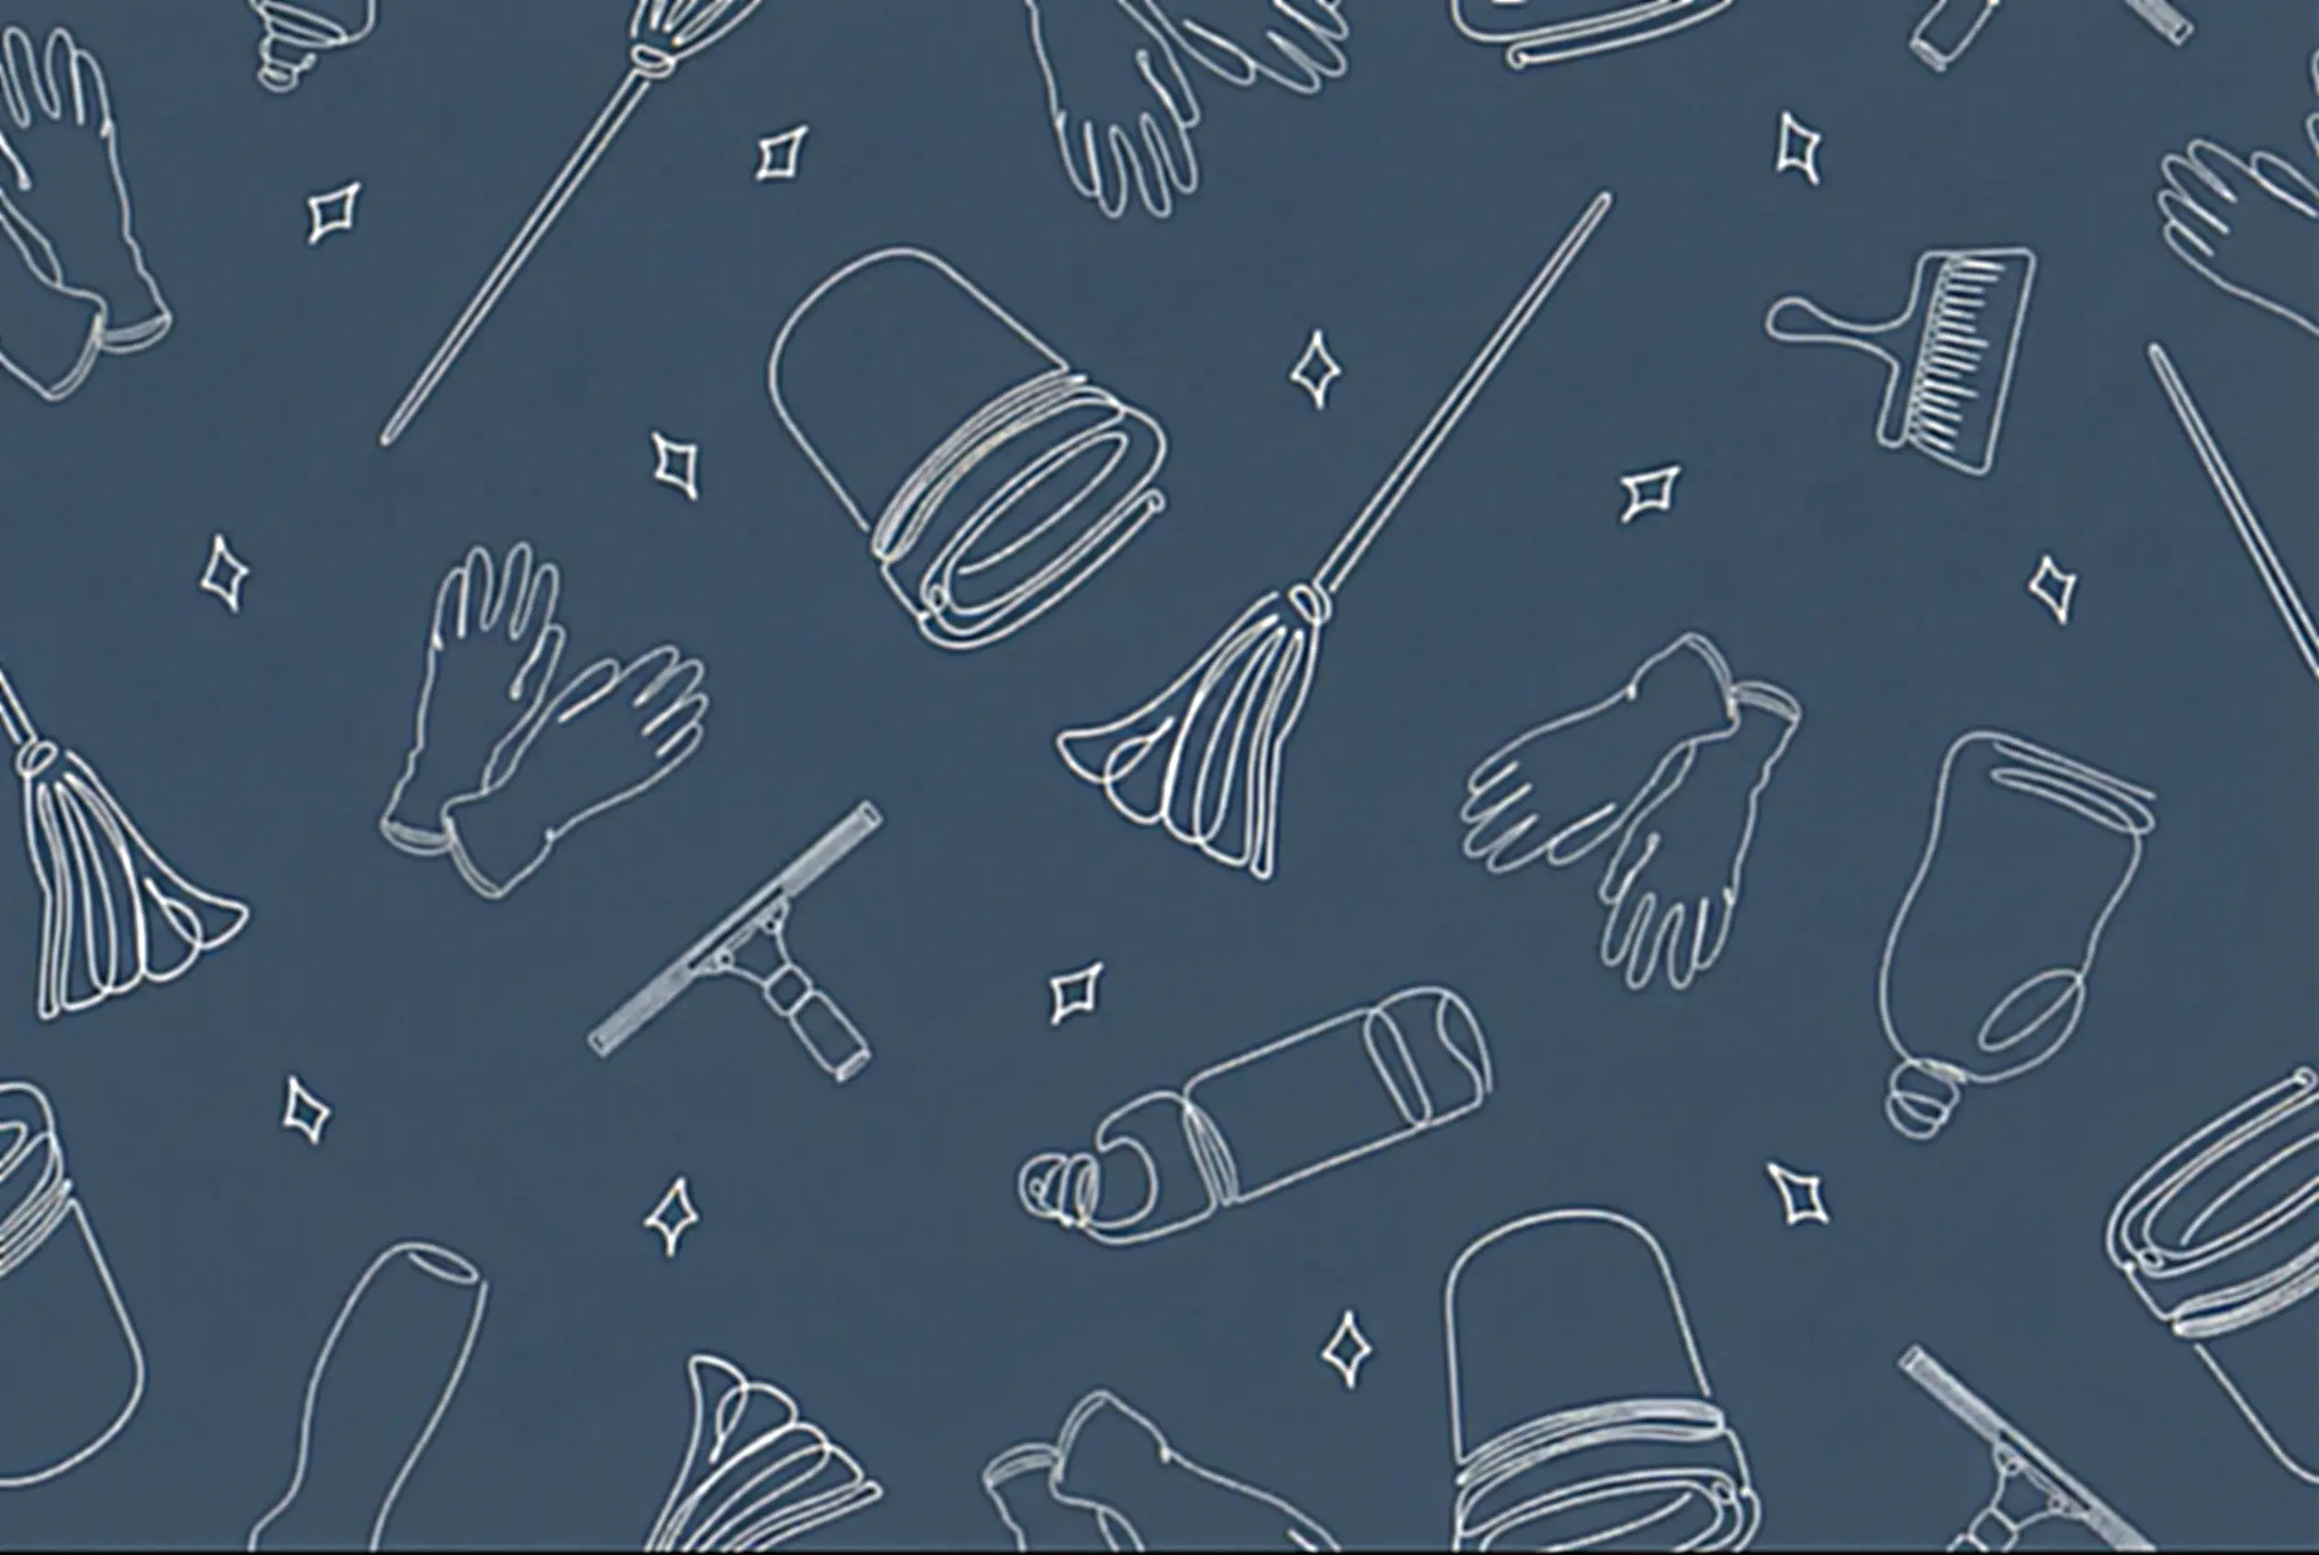
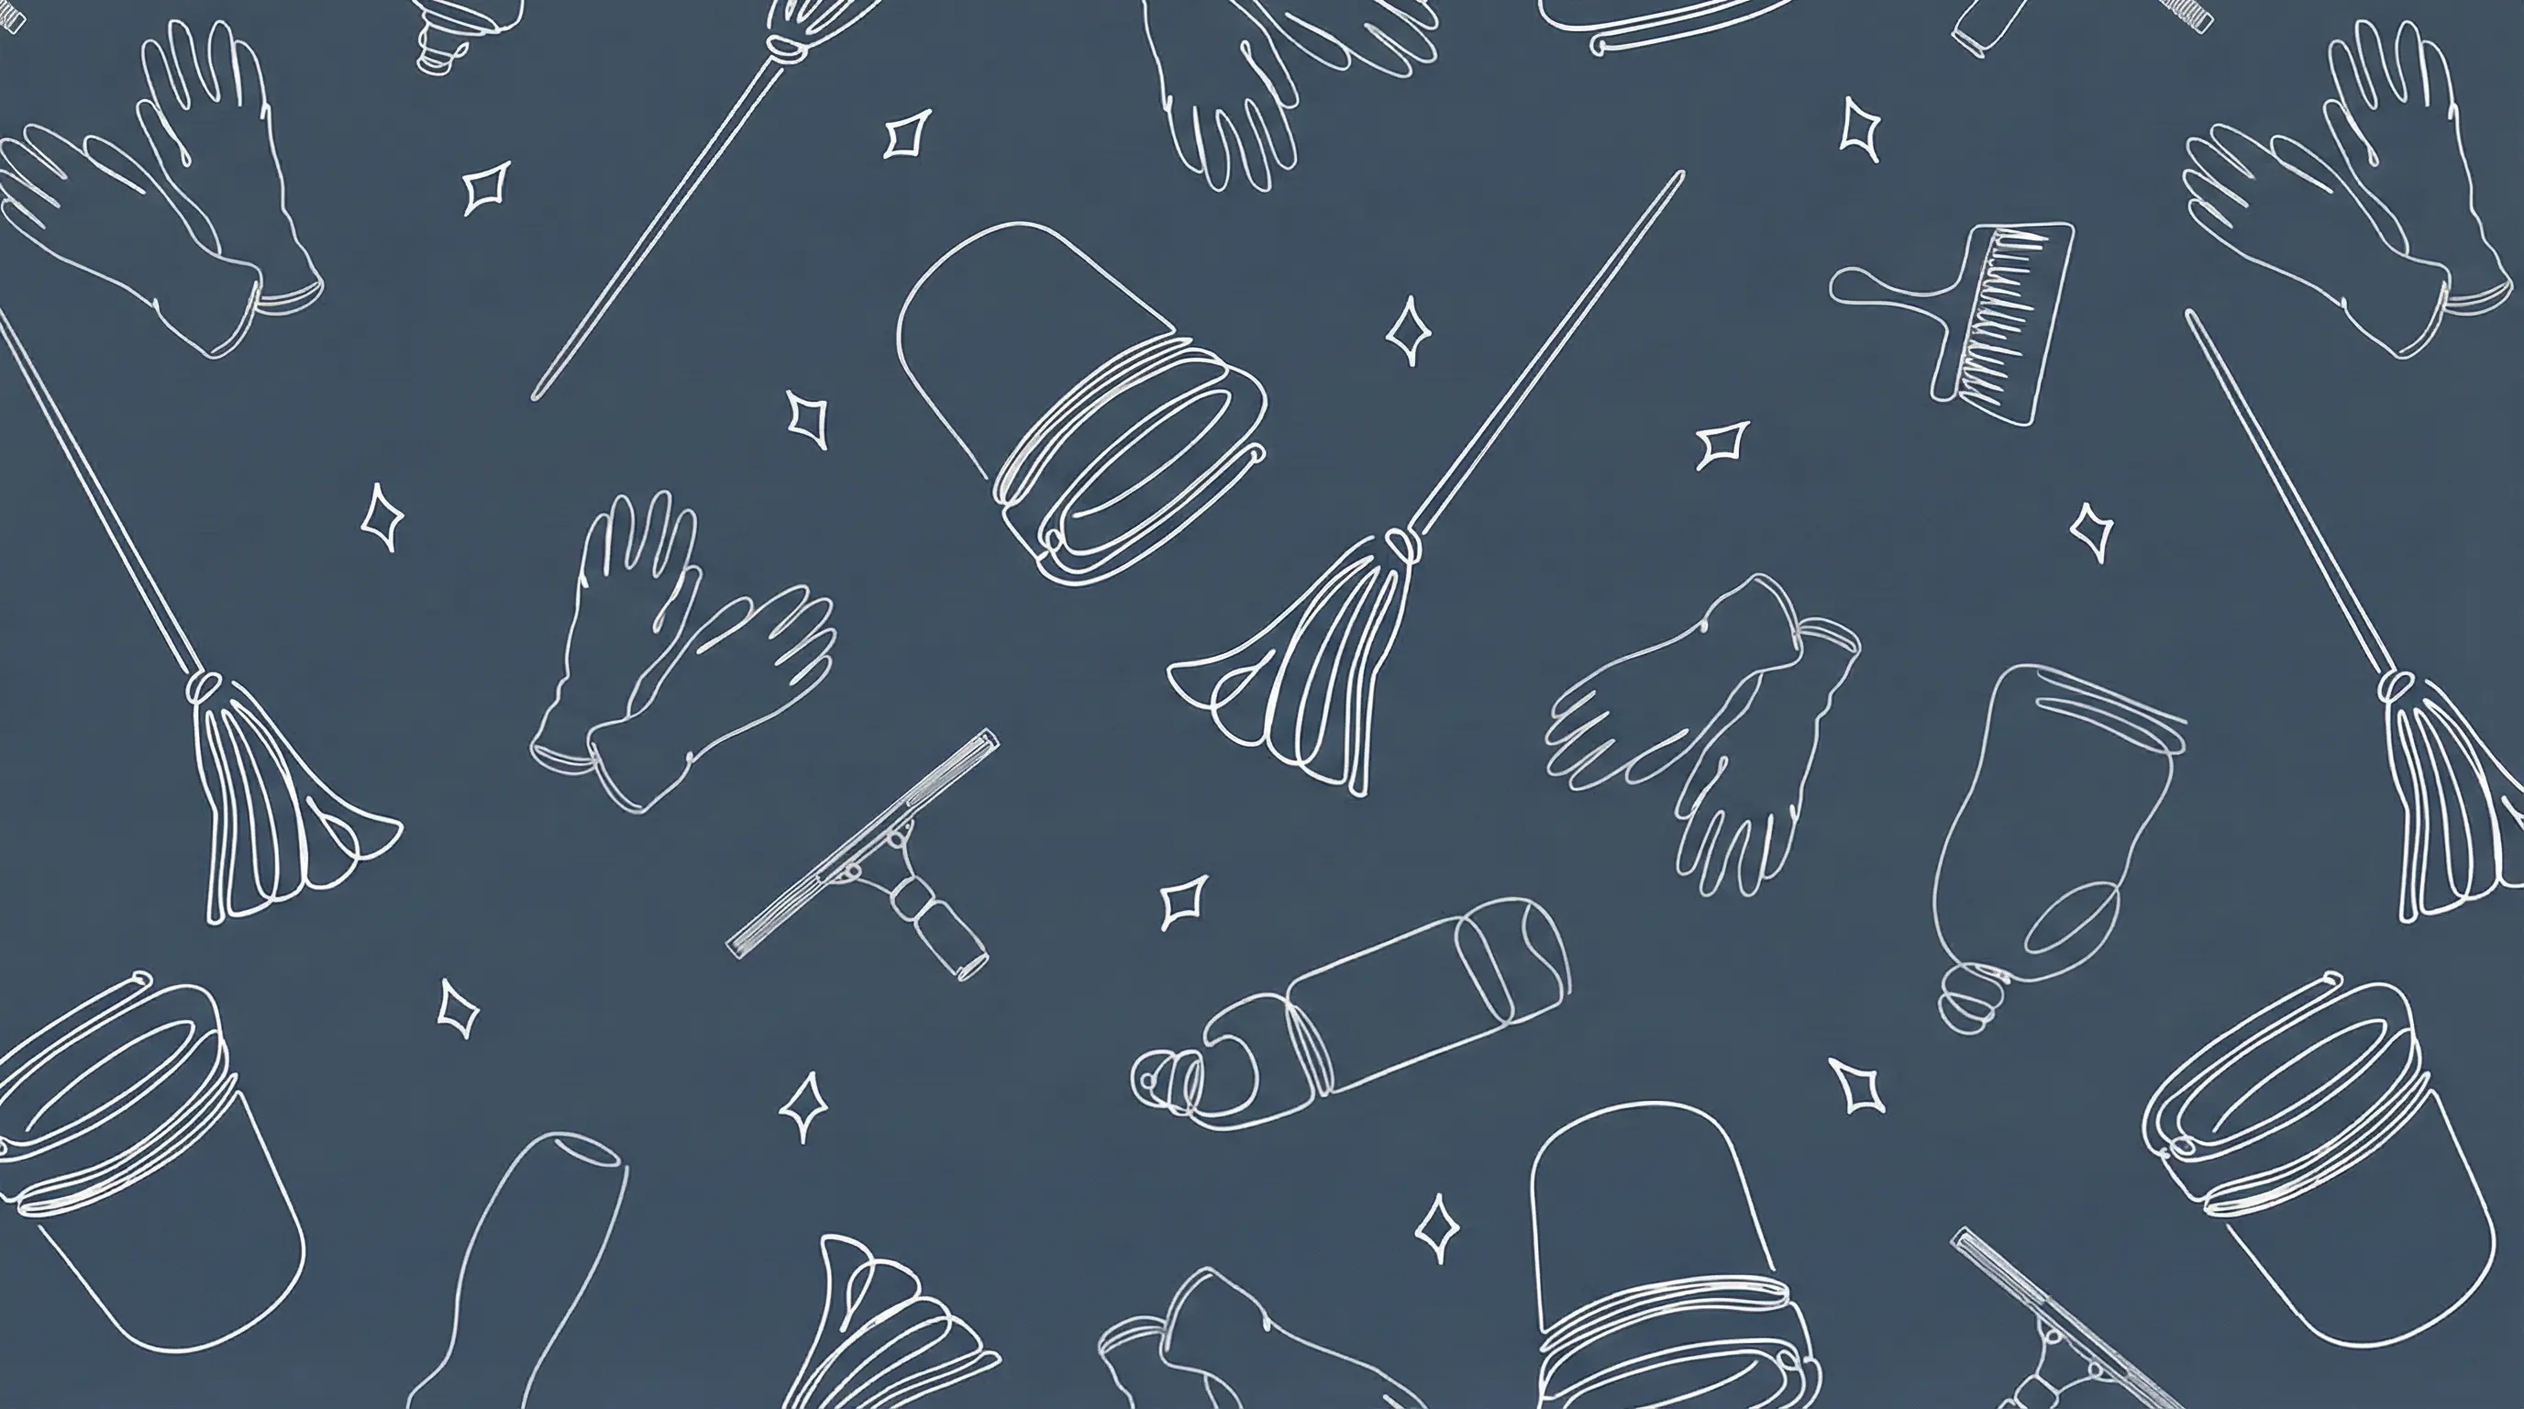
Fixed background photo ratio | Finished BroomScreen

diff --git a/src/screens/Driver/BroomScreen/BroomScreen.jsx b/src/screens/Driver/BroomScreen/BroomScreen.jsx
@@ -1,0 +1,115 @@
+import React from "react";
+import bgImage from "../../../assets/driver/broom/broom-bg.webp";
+import speedIcon from "../../../assets/driver/broom/speed.svg";
+import timerIcon from "../../../assets/driver/broom/time.svg";
+import spotsIcon from "../../../assets/driver/broom/spots.svg";
+import startIcon from "../../../assets/driver/broom/power-on.svg";
+
+export default function BroomScreen({
+  onChangeSpeed,
+  onChangeTime,
+  onChangeSpots,
+  onStart,
+  onBack,
+}) {
+  // Helper style objects to keep the JSX clean and consistent
+  const buttonStyle = {
+    height: "300px", // Reduced from 350px
+    fontSize: "1.3rem", // Slightly smaller font to fit
+    padding: "10px",
+  };
+
+  const iconStyle = {
+    width: "80px", // Reduced from 120px
+    height: "80px",
+    marginBottom: "5px",
+  };
+
+  return (
+    <div className="container" style={{ backgroundImage: `url(${bgImage})` }}>
+      <div className="header-container">
+        <h2
+          className="header-title"
+          style={{
+            fontSize: "3rem",
+            color: "white",
+            fontWeight: "900",
+            textAlign: "center",
+            marginBottom: "30px", // Reduced margin slightly
+            marginTop: "0",
+            textShadow: "0 4px 10px rgba(0,0,0,0.5)",
+          }}
+        >
+          Εφαρμογή σκούπας
+        </h2>
+      </div>
+
+      <div
+        className="button-container"
+        style={{
+          display: "grid",
+          gridTemplateColumns: "1fr 1fr",
+          gap: "20px", // Tighter gap
+          width: "90%",
+          maxWidth: "900px",
+        }}
+      >
+        <button
+          className="btn blue"
+          onClick={onChangeSpeed}
+          style={buttonStyle}
+        >
+          <img
+            src={speedIcon}
+            className="btn-icon"
+            alt="Order"
+            style={iconStyle}
+          />
+          <span>Ρύθμιση ταχύτητας</span>
+        </button>
+
+        <button className="btn blue" onClick={onChangeTime} style={buttonStyle}>
+          <img
+            src={timerIcon}
+            className="btn-icon"
+            alt="Order"
+            style={iconStyle}
+          />
+          <span>Ρύθμιση χρόνου</span>
+        </button>
+
+        <button
+          className="btn blue"
+          onClick={onChangeSpots}
+          style={buttonStyle}
+        >
+          <img
+            src={spotsIcon}
+            className="btn-icon"
+            alt="Order"
+            style={iconStyle}
+          />
+          <span>Επιλογή περιοχών</span>
+        </button>
+
+        <button className="btn blue" onClick={onStart} style={buttonStyle}>
+          <img
+            src={startIcon}
+            className="btn-icon"
+            alt="Order"
+            style={iconStyle}
+          />
+          <span>Ενεργοποίηση</span>
+        </button>
+      </div>
+
+      <button
+        className="btn-back"
+        onClick={onBack}
+        style={{ marginTop: "30px" }} // Reduced top margin for the back button
+      >
+        &larr; Επιστροφή
+      </button>
+    </div>
+  );
+}

diff --git a/src/App.jsx b/src/App.jsx
@@ -9,6 +9,7 @@ import Fullscreen from "./screens/Passenger/Fullscreen/Fullscreen";
 import SightsMenuScreen from "./screens/Passenger/Sights/SightMenuScreen";
 import SightScreen from "./screens/Passenger/Sights/SightScreen";
 import DriverScreen from "./screens/Driver/DriverScreen";
+import BroomScreen from "./screens/Driver/BroomScreen/BroomScreen";
 import PowerUsageScreen from "./screens/Driver/PowerUsageScreen/PowerUsageScreen";
 import ShopsScreen from "./screens/Passenger/Order/ShopsScreen";
 import MenuScreen from "./screens/Passenger/Order/MenuScreen";
@@ -329,6 +330,10 @@ export default function App() {
           finalPowerUsage={finalPowerUsage}
           onBack={() => setView("home")}
         />
+      )}
+
+      {view === "broomScreen" && (
+        <BroomScreen onBack={() => setView("driverScreen")} />
       )}
 
       {view === "powerUsageScreen" && (
